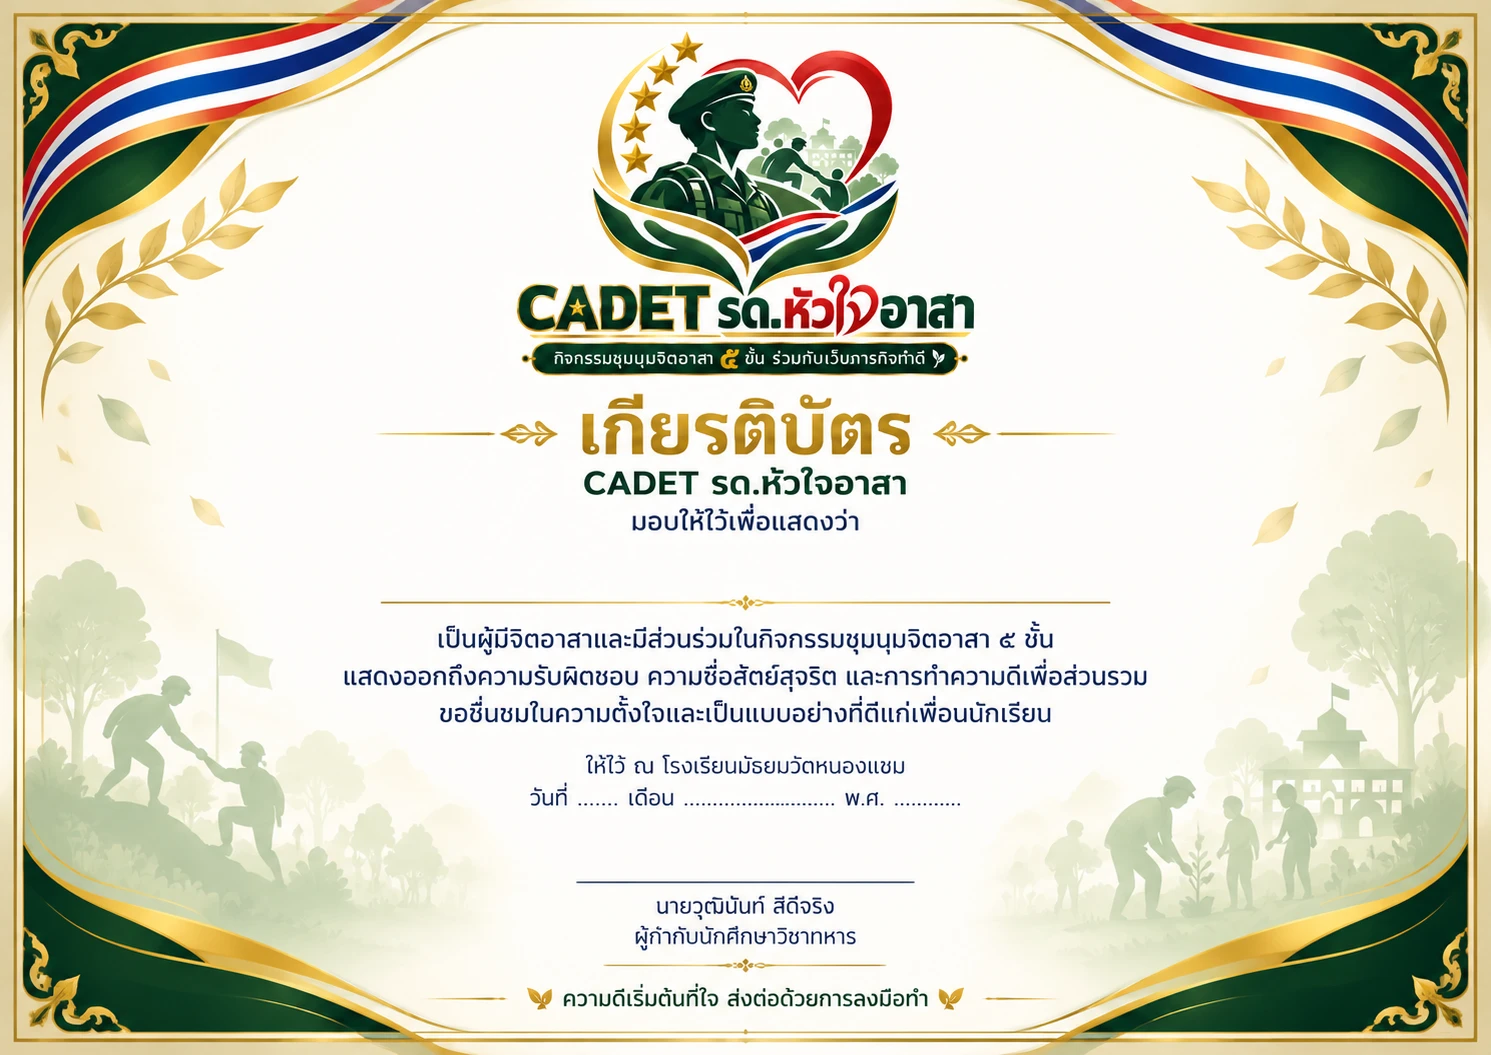
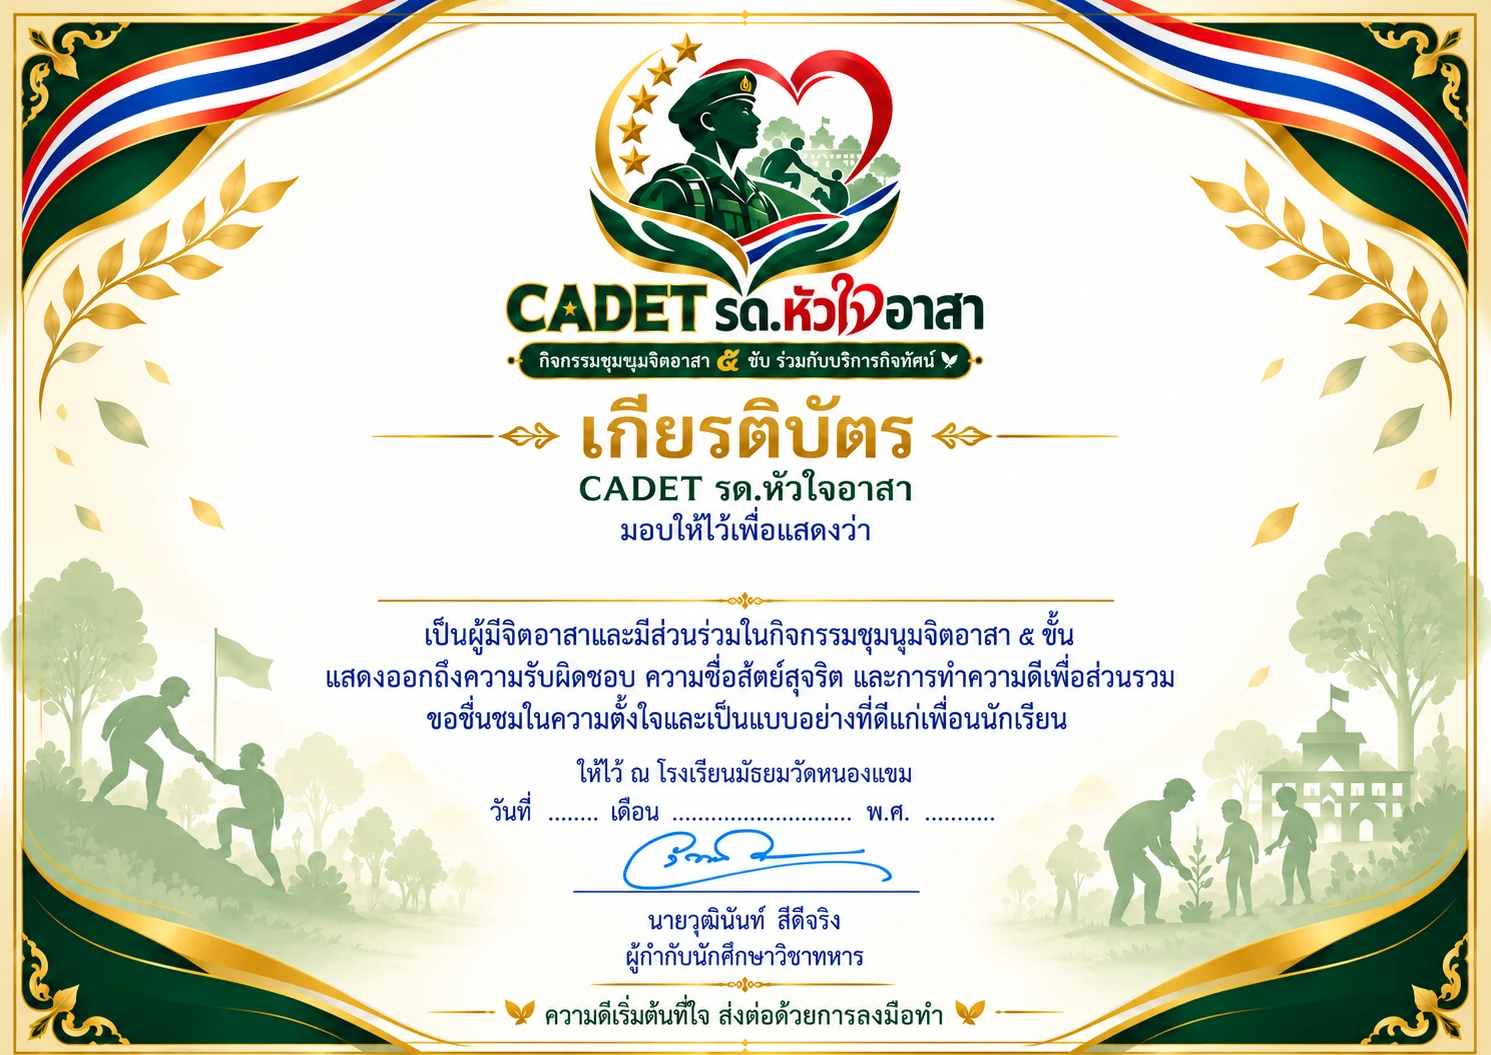
เปลี่ยนแบบเกียรติบัตรเป็นฉบับมีลายเซ็น และจัดตำแหน่งวันที่ใหม่

diff --git a/honor.js b/honor.js
@@ -1,7 +1,7 @@
 /* ผู้ได้รับเกียรติบัตร: รายชื่อจากฐานข้อมูล (api 'honor') วาดเกียรติบัตรลง canvas ในเครื่องผู้ชม ภาพต้นแบบ assets/certificate.webp ไม่มีชื่อ */
 const $=s=>document.querySelector(s),PAGE=48;
 const THM=['มกราคม','กุมภาพันธ์','มีนาคม','เมษายน','พฤษภาคม','มิถุนายน','กรกฎาคม','สิงหาคม','กันยายน','ตุลาคม','พฤศจิกายน','ธันวาคม'];
-const IMG=new Image();IMG.src='assets/certificate.webp';
+const IMG=new Image();IMG.src='assets/certificate.webp?v=q';
 const imgReady=new Promise(r=>IMG.complete&&IMG.naturalWidth?r():(IMG.onload=r,IMG.onerror=r));
 const fontReady=()=>Promise.all([document.fonts.load('600 56px Sarabun'),document.fonts.load('500 23px Sarabun')]).catch(()=>{});
 let ALL=[],SHOWN=PAGE,LIST=[];
@@ -10,7 +10,7 @@ function drawCert(cv,name,date){const c=cv.getContext('2d'),W=1491,H=1055;cv.wid
   let fs=44;do{c.font='600 '+fs+'px Sarabun,sans-serif';fs-=2}while(c.measureText(name).width>900&&fs>30);
   c.fillText(name,745,592);
   const d=date?new Date(date+'T00:00:00'):null;
-  if(d&&!isNaN(d)){c.font='500 23px Sarabun,sans-serif';c.fillText(String(d.getDate()),596,803);c.fillText(THM[d.getMonth()],758,803);c.fillText(String(d.getFullYear()+543),926,803)}}
+  if(d&&!isNaN(d)){c.font='500 23px Sarabun,sans-serif';c.fillText(String(d.getDate()),573,816);c.fillText(THM[d.getMonth()],762,816);c.fillText(String(d.getFullYear()+543),960,816)}}
 const io=('IntersectionObserver' in window)?new IntersectionObserver(es=>es.forEach(e=>{if(e.isIntersecting){io.unobserve(e.target);const x=LIST[+e.target.dataset.i];if(x)drawCert(e.target,x.name,x.date)}}),{rootMargin:'300px'}):null;
 function render(){const q=$('#hnQ').value.trim();
   LIST=ALL.filter(x=>!q||x.name.includes(q));

diff --git a/certificate.js b/certificate.js
@@ -4,7 +4,7 @@ const MIN=1,$=s=>document.querySelector(s);
 let TOKEN=null,NAME='',OK=false;
 try{TOKEN=sessionStorage.getItem('cadet_tok');NAME=sessionStorage.getItem('cadet_name')||''}catch(e){}
 if(window.CADET_DEMO)$('#demoBar').hidden=false;
-const IMG=new Image();IMG.src='assets/certificate.webp';
+const IMG=new Image();IMG.src='assets/certificate.webp?v=q';
 const THM=['มกราคม','กุมภาพันธ์','มีนาคม','เมษายน','พฤษภาคม','มิถุนายน','กรกฎาคม','สิงหาคม','กันยายน','ตุลาคม','พฤศจิกายน','ธันวาคม'];
 async function call(a,d){const r=await api(a,Object.assign({token:TOKEN},d||{}));if(r&&r.auth)out(true);return r}
 function out(exp){TOKEN=null;try{sessionStorage.removeItem('cadet_tok');sessionStorage.removeItem('cadet_name')}catch(e){}
@@ -37,7 +37,7 @@ async function draw(){const cv=$('#cv'),c=cv.getContext('2d');
   do{c.font='600 '+fs+'px Sarabun,sans-serif';fs-=2}while(c.measureText(nm).width>900&&fs>30);
   c.fillText(nm,745,592);
   const d=new Date();c.font='500 23px Sarabun,sans-serif';
-  c.fillText(String(d.getDate()),596,803);c.fillText(THM[d.getMonth()],758,803);c.fillText(String(d.getFullYear()+543),926,803)}
+  c.fillText(String(d.getDate()),573,816);c.fillText(THM[d.getMonth()],762,816);c.fillText(String(d.getFullYear()+543),960,816)}
 
 $('#bPng').onclick=()=>{$('#cv').toBlob(b=>{const a=document.createElement('a');a.href=URL.createObjectURL(b);a.download='เกียรติบัตร-CADET-รดหัวใจอาสา.png';a.click();setTimeout(()=>URL.revokeObjectURL(a.href),4000)},'image/png')};
 $('#bPrint').onclick=()=>window.print();

diff --git a/certificate.html b/certificate.html
@@ -8,7 +8,7 @@
 <title>เกียรติบัตรของฉัน — CADET รด.หัวใจอาสา</title>
 <link rel="icon" href="assets/favicon.png">
 <link href="https://fonts.googleapis.com/css2?family=Bai+Jamjuree:wght@500;600;700&family=Sarabun:wght@400;500;600&family=IBM+Plex+Mono:wght@500;600&display=swap" rel="stylesheet">
-<link rel="stylesheet" href="style.css?v=20261029p"><link rel="stylesheet" href="portal.css?v=20261029p">
+<link rel="stylesheet" href="style.css?v=20261029q"><link rel="stylesheet" href="portal.css?v=20261029q">
 <style>
 .cd-hero{background:linear-gradient(135deg,var(--green-d),var(--green));color:#fff;border-radius:18px;padding:18px 20px;margin-bottom:14px}
 .cd-hero h1{color:#fff;font-size:clamp(22px,4vw,30px);margin:0 0 4px}.cd-hero p{margin:0;color:#e3eedf;font-size:16px;line-height:1.6}
@@ -65,7 +65,7 @@
     <p class="small" style="margin-top:10px">เกียรติบัตรสร้างในเครื่องของคุณจากชื่อในระบบ ไม่ถูกส่งหรือเก็บไว้ที่ใด · ชื่อไม่ถูกต้องให้แจ้งผู้กำกับ</p>
   </div>
 </main>
-<script src="config.js?v=20261029p"></script><script src="api.js?v=20261029p"></script>
-<script src="certificate.js?v=20261029p"></script>
+<script src="config.js?v=20261029q"></script><script src="api.js?v=20261029q"></script>
+<script src="certificate.js?v=20261029q"></script>
 </body>
 </html>

diff --git a/honor.html b/honor.html
@@ -8,7 +8,7 @@
 <title>เกียรติบัตรผู้ลงมือทำความดี — CADET รด.หัวใจอาสา</title>
 <link rel="icon" href="assets/favicon.png">
 <link href="https://fonts.googleapis.com/css2?family=Bai+Jamjuree:wght@500;600;700&family=Sarabun:wght@400;500;600&family=IBM+Plex+Mono:wght@500;600&display=swap" rel="stylesheet">
-<link rel="stylesheet" href="style.css?v=20261029p"><link rel="stylesheet" href="portal.css?v=20261029p">
+<link rel="stylesheet" href="style.css?v=20261029q"><link rel="stylesheet" href="portal.css?v=20261029q">
 <style>
 .hn-hero{background:linear-gradient(135deg,var(--green-d),var(--green));color:#fff;border-radius:18px;padding:18px 20px;margin:14px 0}
 .hn-hero h1{color:#fff;font-size:clamp(22px,4vw,32px);margin:0 0 4px}.hn-hero p{margin:0;color:#e3eedf;font-size:16px;line-height:1.6}
@@ -49,7 +49,7 @@
   <canvas id="hnBig" width="1491" height="1055"></canvas>
   <div class="cd-act" style="display:flex;gap:10px"><button class="btn btn-primary" id="hnPng" type="button">⬇ บันทึกเป็นรูปภาพ</button><button class="btn btn-ghost" id="hnClose" type="button" style="background:#fff">ปิด</button></div>
 </div>
-<script src="config.js?v=20261029p"></script><script src="api.js?v=20261029p"></script>
-<script src="honor.js?v=20261029p"></script>
+<script src="config.js?v=20261029q"></script><script src="api.js?v=20261029q"></script>
+<script src="honor.js?v=20261029q"></script>
 </body>
 </html>
